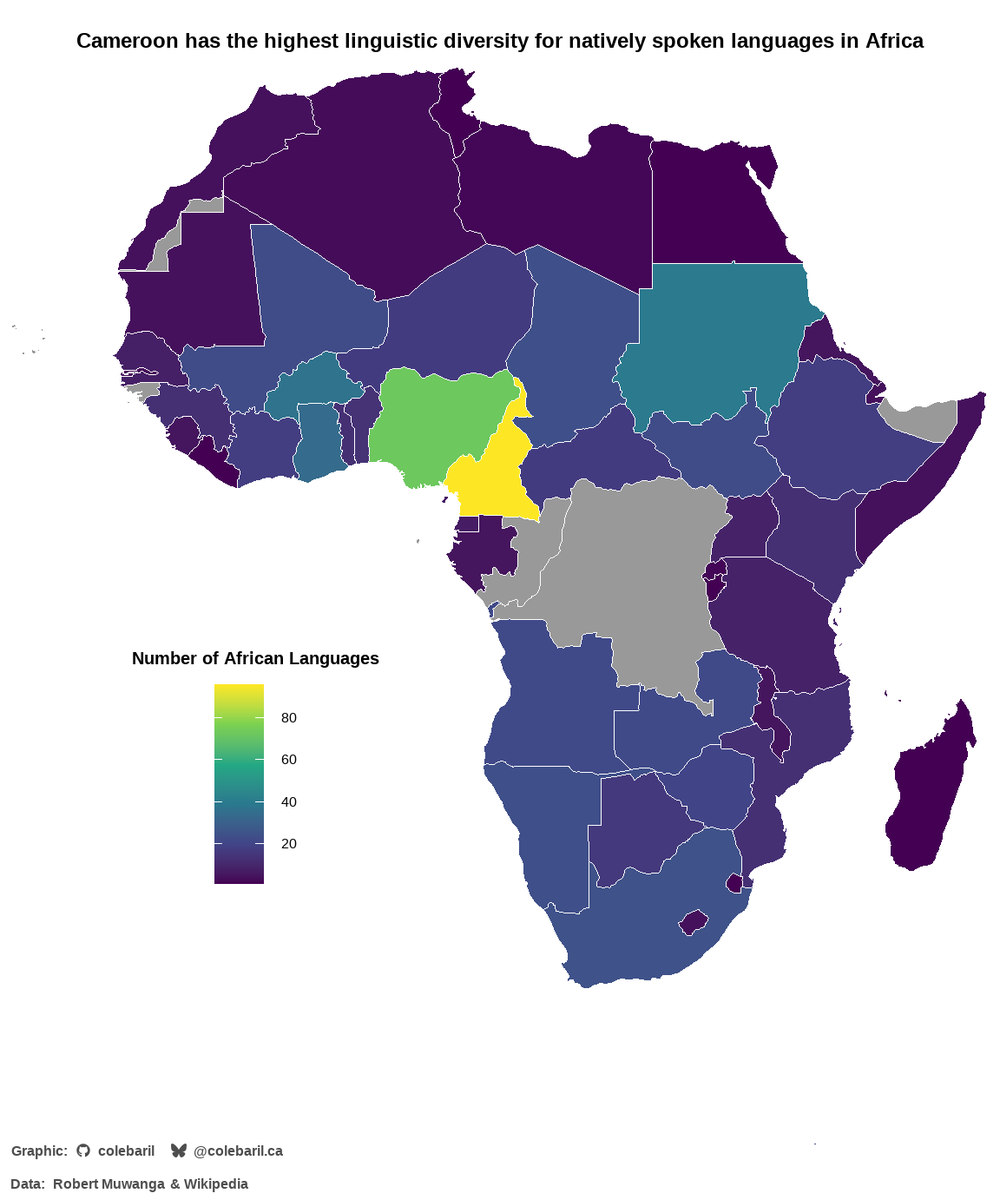
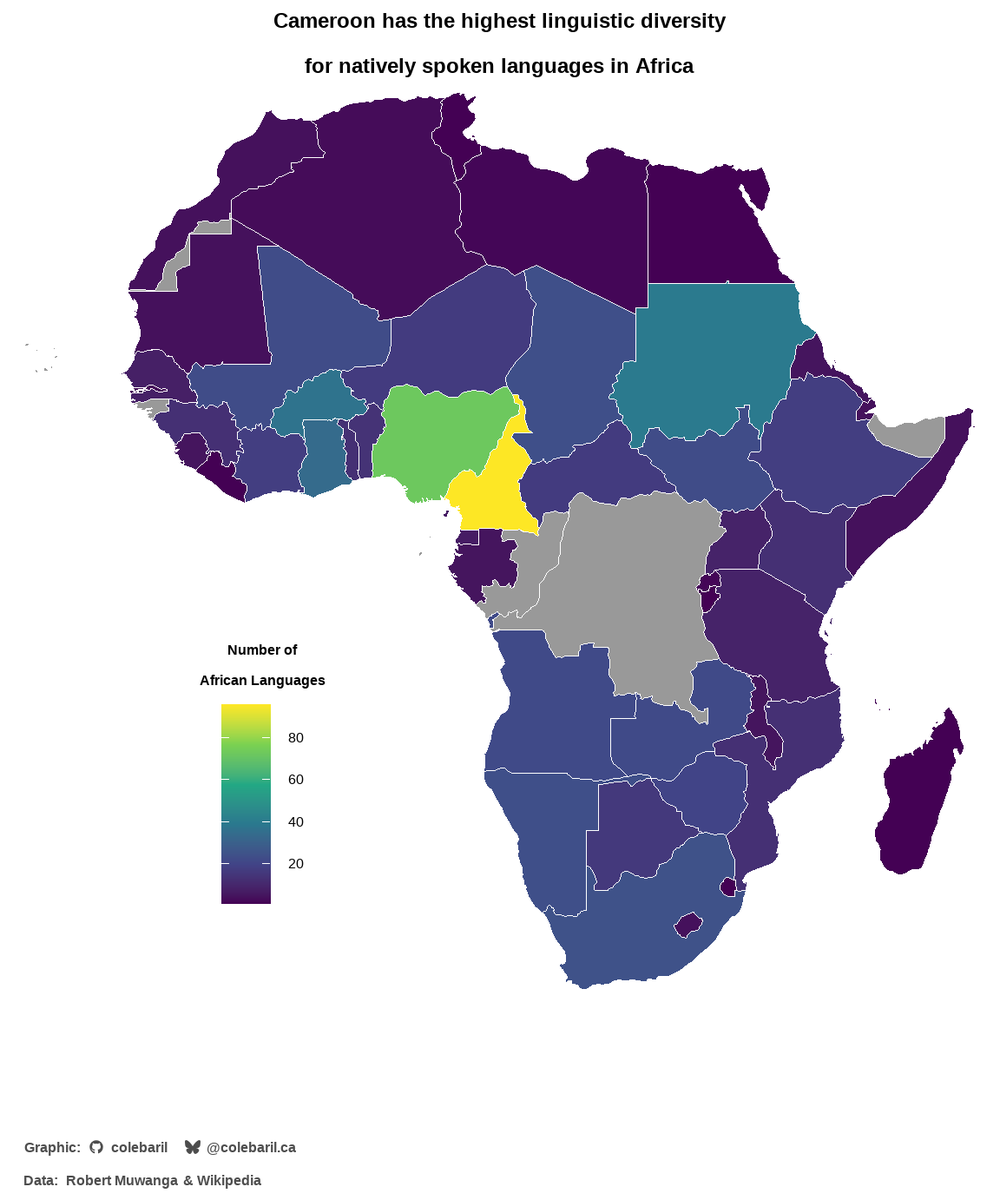
2025-01-20

diff --git a/docs/2026-01-20 - Astronomy Picture of the Day/2026-01-20 - Astronomy Picture of the Day.html b/docs/2026-01-20 - Astronomy Picture of the Day/2026-01-20 - Astronomy Picture of the Day.html
@@ -6,8 +6,9 @@
 
 <meta name="viewport" content="width=device-width, initial-scale=1.0, user-scalable=yes">
 
+<meta name="author" content="Cole Baril">
 
-<title>Cole’s TidyTuesday Archive – tidytuesday</title>
+<title>2026-01-20 - Astronomy Picture of the Day – tidytuesday</title>
 <style>
 code{white-space: pre-wrap;}
 span.smallcaps{font-variant: small-caps;}
@@ -20,25 +21,59 @@ ul.task-list li input[type="checkbox"] {
   margin: 0 0.8em 0.2em -1em; /* quarto-specific, see https://github.com/quarto-dev/quarto-cli/issues/4556 */ 
   vertical-align: middle;
 }
+/* CSS for syntax highlighting */
+pre > code.sourceCode { white-space: pre; position: relative; }
+pre > code.sourceCode > span { line-height: 1.25; }
+pre > code.sourceCode > span:empty { height: 1.2em; }
+.sourceCode { overflow: visible; }
+code.sourceCode > span { color: inherit; text-decoration: inherit; }
+div.sourceCode { margin: 1em 0; }
+pre.sourceCode { margin: 0; }
+@media screen {
+div.sourceCode { overflow: auto; }
+}
+@media print {
+pre > code.sourceCode { white-space: pre-wrap; }
+pre > code.sourceCode > span { display: inline-block; text-indent: -5em; padding-left: 5em; }
+}
+pre.numberSource code
+  { counter-reset: source-line 0; }
+pre.numberSource code > span
+  { position: relative; left: -4em; counter-increment: source-line; }
+pre.numberSource code > span > a:first-child::before
+  { content: counter(source-line);
+    position: relative; left: -1em; text-align: right; vertical-align: baseline;
+    border: none; display: inline-block;
+    -webkit-touch-callout: none; -webkit-user-select: none;
+    -khtml-user-select: none; -moz-user-select: none;
+    -ms-user-select: none; user-select: none;
+    padding: 0 4px; width: 4em;
+  }
+pre.numberSource { margin-left: 3em;  padding-left: 4px; }
+div.sourceCode
+  {   }
+@media screen {
+pre > code.sourceCode > span > a:first-child::before { text-decoration: underline; }
+}
 </style>
 
 
-<script src="site_libs/quarto-nav/quarto-nav.js"></script>
-<script src="site_libs/quarto-nav/headroom.min.js"></script>
-<script src="site_libs/clipboard/clipboard.min.js"></script>
-<script src="site_libs/quarto-search/autocomplete.umd.js"></script>
-<script src="site_libs/quarto-search/fuse.min.js"></script>
-<script src="site_libs/quarto-search/quarto-search.js"></script>
-<meta name="quarto:offset" content="./">
-<script src="site_libs/quarto-html/quarto.js"></script>
-<script src="site_libs/quarto-html/popper.min.js"></script>
-<script src="site_libs/quarto-html/tippy.umd.min.js"></script>
-<script src="site_libs/quarto-html/anchor.min.js"></script>
-<link href="site_libs/quarto-html/tippy.css" rel="stylesheet">
-<link href="site_libs/quarto-html/quarto-syntax-highlighting-2f5df379a58b258e96c21c0638c20c03.css" rel="stylesheet" id="quarto-text-highlighting-styles">
-<script src="site_libs/bootstrap/bootstrap.min.js"></script>
-<link href="site_libs/bootstrap/bootstrap-icons.css" rel="stylesheet">
-<link href="site_libs/bootstrap/bootstrap-08451e29fd5e7999e57999794949c97a.min.css" rel="stylesheet" append-hash="true" id="quarto-bootstrap" data-mode="light">
+<script src="../site_libs/quarto-nav/quarto-nav.js"></script>
+<script src="../site_libs/quarto-nav/headroom.min.js"></script>
+<script src="../site_libs/clipboard/clipboard.min.js"></script>
+<script src="../site_libs/quarto-search/autocomplete.umd.js"></script>
+<script src="../site_libs/quarto-search/fuse.min.js"></script>
+<script src="../site_libs/quarto-search/quarto-search.js"></script>
+<meta name="quarto:offset" content="../">
+<script src="../site_libs/quarto-html/quarto.js"></script>
+<script src="../site_libs/quarto-html/popper.min.js"></script>
+<script src="../site_libs/quarto-html/tippy.umd.min.js"></script>
+<script src="../site_libs/quarto-html/anchor.min.js"></script>
+<link href="../site_libs/quarto-html/tippy.css" rel="stylesheet">
+<link href="../site_libs/quarto-html/quarto-syntax-highlighting-2f5df379a58b258e96c21c0638c20c03.css" rel="stylesheet" id="quarto-text-highlighting-styles">
+<script src="../site_libs/bootstrap/bootstrap.min.js"></script>
+<link href="../site_libs/bootstrap/bootstrap-icons.css" rel="stylesheet">
+<link href="../site_libs/bootstrap/bootstrap-08451e29fd5e7999e57999794949c97a.min.css" rel="stylesheet" append-hash="true" id="quarto-bootstrap" data-mode="light">
 <script id="quarto-search-options" type="application/json">{
   "location": "navbar",
   "copy-button": false,
@@ -78,7 +113,7 @@ ul.task-list li input[type="checkbox"] {
     <nav class="navbar navbar-expand-lg " data-bs-theme="dark">
       <div class="navbar-container container-fluid">
       <div class="navbar-brand-container mx-auto">
-    <a class="navbar-brand" href="./index.html">
+    <a class="navbar-brand" href="../index.html">
     <span class="navbar-title">tidytuesday</span>
     </a>
   </div>
@@ -89,11 +124,11 @@ ul.task-list li input[type="checkbox"] {
           <div class="collapse navbar-collapse" id="navbarCollapse">
             <ul class="navbar-nav navbar-nav-scroll me-auto">
   <li class="nav-item">
-    <a class="nav-link active" href="./index.html" aria-current="page"> 
+    <a class="nav-link" href="../index.html"> 
 <span class="menu-text">Home</span></a>
   </li>  
   <li class="nav-item">
-    <a class="nav-link" href="./about.html"> 
+    <a class="nav-link" href="../about.html"> 
 <span class="menu-text">About This Site</span></a>
   </li>  
 </ul>
@@ -112,10 +147,7 @@ ul.task-list li input[type="checkbox"] {
     <h2 id="toc-title">On this page</h2>
    
   <ul>
-  <li><a href="#section" id="toc-section" class="nav-link active" data-scroll-target="#section">2026</a>
-  <ul class="collapse">
-  <li><a href="#section-1" id="toc-section-1" class="nav-link" data-scroll-target="#section-1">2025</a></li>
-  </ul></li>
+  <li><a href="#sun-mentions" id="toc-sun-mentions" class="nav-link active" data-scroll-target="#sun-mentions">Sun Mentions</a></li>
   </ul>
 </nav>
     </div>
@@ -124,13 +156,19 @@ ul.task-list li input[type="checkbox"] {
 
 <header id="title-block-header" class="quarto-title-block default">
 <div class="quarto-title">
-<h1 class="title">Cole’s TidyTuesday Archive</h1>
+<h1 class="title">2026-01-20 - Astronomy Picture of the Day</h1>
 </div>
 
 
 
 <div class="quarto-title-meta">
 
+    <div>
+    <div class="quarto-title-meta-heading">Author</div>
+    <div class="quarto-title-meta-contents">
+             <p>Cole Baril </p>
+          </div>
+  </div>
     
   
     
@@ -141,74 +179,75 @@ ul.task-list li input[type="checkbox"] {
 </header>
 
 
-<p>Click the links below to explore some of my weekly TidyTuesday posts</p>
-<section id="section" class="level1">
-<h1>2026</h1>
-<div class="columns">
-<div class="column" style="width:45%;">
-<section id="bring-your-own-data" class="level4">
-<h4 class="anchored" data-anchor-id="bring-your-own-data"><a href="2026-01-06 - Bring Your Own Data/2026-01-06 - Bring Your Own Data.html">2026-01-06 - Bring Your Own Data</a></h4>
-</section>
-</div><div class="column" style="width:45%;">
-<section id="the-languages-of-africa" class="level4">
-<h4 class="anchored" data-anchor-id="the-languages-of-africa"><a href="2026-01-13 - The Languages of Africa/2026-01-13 - The Languages of Africa.html">2026-01-13 - The Languages of Africa</a></h4>
-<p>Natively spoken languages in Africa.</p>
-</section>
-</div><div class="column" style="width:45%;">
-<section id="astronomy-picture-of-the-day" class="level4">
-<h4 class="anchored" data-anchor-id="astronomy-picture-of-the-day"><a href="2026-01-20 - Astronomy Picture of the Day/2026-01-20 - Astronomy Picture of the Day.html">2026-01-20 - Astronomy Picture of the Day</a></h4>
-<p>How often is the Sun mentioned in Astronomy Picture of the Day posts?</p>
-</section>
+<div class="cell">
+<div class="sourceCode cell-code" id="cb1"><pre class="sourceCode r code-with-copy"><code class="sourceCode r"><span id="cb1-1"><a href="#cb1-1" aria-hidden="true" tabindex="-1"></a><span class="fu">require</span>(pacman)</span>
+<span id="cb1-2"><a href="#cb1-2" aria-hidden="true" tabindex="-1"></a><span class="fu">p_load</span>(tidytuesdayR, tidyverse, janitor, here, spellbook, rnaturalearth, rnaturalearthdata, glue, ggtext, showtext)</span></code><button title="Copy to Clipboard" class="code-copy-button"><i class="bi"></i></button></pre></div>
 </div>
+<div class="cell">
+<div class="sourceCode cell-code" id="cb2"><pre class="sourceCode r code-with-copy"><code class="sourceCode r"><span id="cb2-1"><a href="#cb2-1" aria-hidden="true" tabindex="-1"></a>tuesdata <span class="ot">&lt;-</span> tidytuesdayR<span class="sc">::</span><span class="fu">tt_load</span>(<span class="st">'2026-01-20'</span>)</span>
+<span id="cb2-2"><a href="#cb2-2" aria-hidden="true" tabindex="-1"></a>apod <span class="ot">&lt;-</span> tuesdata<span class="sc">$</span>apod</span></code><button title="Copy to Clipboard" class="code-copy-button"><i class="bi"></i></button></pre></div>
 </div>
-<section id="section-1" class="level2">
-<h2 class="anchored" data-anchor-id="section-1">2025</h2>
-<div class="columns">
-<div class="column" style="width:45%;">
-<section id="himalayan-mountaineering" class="level4">
-<h4 class="anchored" data-anchor-id="himalayan-mountaineering"><a href="2025-01-21 - Himalayan Mountaineering/2025-01-21 - Himalayan Mountaineering.html">2025-01-21 - Himalayan Mountaineering</a></h4>
-<p>Mountaineering success rates in the Himalayan peaks.</p>
-</section>
-</div><div class="column" style="width:45%;">
-<section id="us-weekly-gas-prices" class="level4">
-<h4 class="anchored" data-anchor-id="us-weekly-gas-prices"><a href="2025-07-01 - US Weekly Gas Prices/2025-07-01 - US Weekly Gas Prices.html">2025-07-01 - US Weekly Gas Prices</a></h4>
-<p>Exploring trends in US gasoline prices</p>
-</section>
-</div><div class="column" style="width:45%;">
-<section id="extreme-weather-attribution-studies" class="level4">
-<h4 class="anchored" data-anchor-id="extreme-weather-attribution-studies"><a href="2025-08-12 - Extreme Weather Attribution Studies/2025-08-12 - Extreme Weather Attribution Studies.html">2025-08-12 - Extreme Weather Attribution Studies</a></h4>
-<p>Exploring extreme weather causes.</p>
-</section>
-</div><div class="column" style="width:45%;">
-<section id="scottish-munros" class="level4">
-<h4 class="anchored" data-anchor-id="scottish-munros"><a href="2025-08-19 - Scottish Munros/2025-08-19 - Scottish Munros.html">2025-08-19 - Scottish Munros</a></h4>
-<p>Exploring Scottish Munro (e.g., mountain) data.</p>
-</section>
-</div><div class="column" style="width:45%;">
-<section id="billboard-hot-100-number-ones" class="level4">
-<h4 class="anchored" data-anchor-id="billboard-hot-100-number-ones"><a href="2025-08-26 - Billboard Hot 100 Number Ones/2025-08-26 - Billboard Hot 100 Number Ones.html">2025-08-26 - Billboard Hot 100 Number Ones</a></h4>
-<p>Exploring Billboard Hot 100 Number One track data.</p>
-</section>
-</div><div class="column" style="width:45%;">
-<section id="australian-frogs" class="level4">
-<h4 class="anchored" data-anchor-id="australian-frogs"><a href="2025-09-02_Australian Frogs/2025-09-02_Australian Frogs.html">2025-09-02 – Australian Frogs</a></h4>
-<p>Exploring frog species richness across Australia.</p>
-</section>
-</div><div class="column" style="width:45%;">
-<section id="passport-power" class="level4">
-<h4 class="anchored" data-anchor-id="passport-power"><a href="2025-09-09 - Passport Power/2025-09-09 - Passport Power.html">2025-09-09 – Passport Power</a></h4>
-<p>Exploring passport power for each country.</p>
-</section>
-</div><div class="column" style="width:45%;">
-<section id="christmas-novels" class="level4">
-<h4 class="anchored" data-anchor-id="christmas-novels"><a href="2025-12-30 - Christmas Novels/2025-12-30 - Christmas Novels.html">2025-12-30 - Christmas Novels</a></h4>
-<p>Text analysis from Christmas novels.</p>
-</section>
+<div class="cell">
+<div class="sourceCode cell-code" id="cb3"><pre class="sourceCode r code-with-copy"><code class="sourceCode r"><span id="cb3-1"><a href="#cb3-1" aria-hidden="true" tabindex="-1"></a>sun_mentions <span class="ot">&lt;-</span> apod <span class="sc">|&gt;</span> </span>
+<span id="cb3-2"><a href="#cb3-2" aria-hidden="true" tabindex="-1"></a><span class="fu">mutate</span>(</span>
+<span id="cb3-3"><a href="#cb3-3" aria-hidden="true" tabindex="-1"></a>  <span class="at">sun_mention =</span></span>
+<span id="cb3-4"><a href="#cb3-4" aria-hidden="true" tabindex="-1"></a>    <span class="fu">str_detect</span>(title, <span class="fu">regex</span>(<span class="st">"(?&lt;![A-Za-z])sun(?![A-Za-z])"</span>, <span class="at">ignore_case =</span> <span class="cn">TRUE</span>)) <span class="sc">|</span></span>
+<span id="cb3-5"><a href="#cb3-5" aria-hidden="true" tabindex="-1"></a>    <span class="fu">str_detect</span>(explanation, <span class="fu">regex</span>(<span class="st">"(?&lt;![A-Za-z])sun(?![A-Za-z])"</span>, <span class="at">ignore_case =</span> <span class="cn">TRUE</span>)))</span>
+<span id="cb3-6"><a href="#cb3-6" aria-hidden="true" tabindex="-1"></a></span>
+<span id="cb3-7"><a href="#cb3-7" aria-hidden="true" tabindex="-1"></a>sun_mentions_cleaned <span class="ot">&lt;-</span> sun_mentions <span class="sc">|&gt;</span> </span>
+<span id="cb3-8"><a href="#cb3-8" aria-hidden="true" tabindex="-1"></a>  <span class="fu">filter</span>(sun_mention <span class="sc">==</span> <span class="cn">TRUE</span>)</span>
+<span id="cb3-9"><a href="#cb3-9" aria-hidden="true" tabindex="-1"></a></span>
+<span id="cb3-10"><a href="#cb3-10" aria-hidden="true" tabindex="-1"></a><span class="co"># Compute % of month with sun mentioned</span></span>
+<span id="cb3-11"><a href="#cb3-11" aria-hidden="true" tabindex="-1"></a>apod_solar <span class="ot">&lt;-</span> sun_mentions <span class="sc">|&gt;</span></span>
+<span id="cb3-12"><a href="#cb3-12" aria-hidden="true" tabindex="-1"></a>  <span class="fu">mutate</span>(</span>
+<span id="cb3-13"><a href="#cb3-13" aria-hidden="true" tabindex="-1"></a>    <span class="at">month =</span> <span class="fu">month</span>(date, <span class="at">label =</span> <span class="cn">TRUE</span>, <span class="at">abbr =</span> <span class="cn">TRUE</span>),</span>
+<span id="cb3-14"><a href="#cb3-14" aria-hidden="true" tabindex="-1"></a>    <span class="at">year =</span> <span class="fu">year</span>(date)) <span class="sc">|&gt;</span></span>
+<span id="cb3-15"><a href="#cb3-15" aria-hidden="true" tabindex="-1"></a>  <span class="fu">group_by</span>(year, month) <span class="sc">|&gt;</span></span>
+<span id="cb3-16"><a href="#cb3-16" aria-hidden="true" tabindex="-1"></a>  <span class="fu">summarise</span>(</span>
+<span id="cb3-17"><a href="#cb3-17" aria-hidden="true" tabindex="-1"></a>    <span class="at">sun_share =</span> <span class="fu">mean</span>(sun_mention, <span class="at">na.rm =</span> <span class="cn">TRUE</span>),</span>
+<span id="cb3-18"><a href="#cb3-18" aria-hidden="true" tabindex="-1"></a>    <span class="at">.groups =</span> <span class="st">"drop"</span>)</span></code><button title="Copy to Clipboard" class="code-copy-button"><i class="bi"></i></button></pre></div>
+</div>
+<section id="sun-mentions" class="level2">
+<h2 class="anchored" data-anchor-id="sun-mentions">Sun Mentions</h2>
+<div class="cell">
+<div class="sourceCode cell-code" id="cb4"><pre class="sourceCode r code-with-copy"><code class="sourceCode r"><span id="cb4-1"><a href="#cb4-1" aria-hidden="true" tabindex="-1"></a><span class="fu">ggplot</span>(apod_solar, <span class="fu">aes</span>(year, <span class="fu">fct_rev</span>(month), <span class="at">fill =</span> sun_share)) <span class="sc">+</span></span>
+<span id="cb4-2"><a href="#cb4-2" aria-hidden="true" tabindex="-1"></a>  <span class="fu">geom_tile</span>(<span class="at">color =</span> <span class="st">"black"</span>, <span class="at">linewidth =</span> <span class="fl">0.15</span>) <span class="sc">+</span></span>
+<span id="cb4-3"><a href="#cb4-3" aria-hidden="true" tabindex="-1"></a>  <span class="fu">scale_fill_gradient</span>(</span>
+<span id="cb4-4"><a href="#cb4-4" aria-hidden="true" tabindex="-1"></a>    <span class="at">low =</span> <span class="st">"#0B1026"</span>,   </span>
+<span id="cb4-5"><a href="#cb4-5" aria-hidden="true" tabindex="-1"></a>    <span class="at">high =</span> <span class="st">"#FDB813"</span>,  </span>
+<span id="cb4-6"><a href="#cb4-6" aria-hidden="true" tabindex="-1"></a>    <span class="at">labels =</span> scales<span class="sc">::</span>percent,</span>
+<span id="cb4-7"><a href="#cb4-7" aria-hidden="true" tabindex="-1"></a>    <span class="at">name =</span> <span class="st">"Sun Mentions"</span>) <span class="sc">+</span></span>
+<span id="cb4-8"><a href="#cb4-8" aria-hidden="true" tabindex="-1"></a>  <span class="fu">labs</span>(</span>
+<span id="cb4-9"><a href="#cb4-9" aria-hidden="true" tabindex="-1"></a>    <span class="at">x =</span> <span class="st">"Year"</span>, <span class="at">y =</span> <span class="st">"Month"</span>,</span>
+<span id="cb4-10"><a href="#cb4-10" aria-hidden="true" tabindex="-1"></a>    <span class="at">title =</span> <span class="st">"When the Sun Appears in Astronomy Picture of the Day Posts"</span>,</span>
+<span id="cb4-11"><a href="#cb4-11" aria-hidden="true" tabindex="-1"></a>    <span class="at">subtitle =</span> <span class="st">"Share of titles and explanations mentioning the Sun by month (2007–2025) </span><span class="sc">\n</span><span class="st">Each tile = % of that month mentioning the Sun"</span>) <span class="sc">+</span></span>
+<span id="cb4-12"><a href="#cb4-12" aria-hidden="true" tabindex="-1"></a>  <span class="fu">theme_minimal</span>(<span class="at">base_size =</span> <span class="dv">12</span>) <span class="sc">+</span></span>
+<span id="cb4-13"><a href="#cb4-13" aria-hidden="true" tabindex="-1"></a>  <span class="fu">scale_x_continuous</span>(<span class="at">expand =</span> <span class="fu">c</span>(<span class="dv">0</span>, <span class="dv">0</span>)) <span class="sc">+</span></span>
+<span id="cb4-14"><a href="#cb4-14" aria-hidden="true" tabindex="-1"></a>  <span class="fu">theme</span>(</span>
+<span id="cb4-15"><a href="#cb4-15" aria-hidden="true" tabindex="-1"></a>    <span class="at">panel.grid =</span> <span class="fu">element_blank</span>(),</span>
+<span id="cb4-16"><a href="#cb4-16" aria-hidden="true" tabindex="-1"></a>    <span class="at">plot.background =</span> <span class="fu">element_rect</span>(<span class="at">fill =</span> <span class="st">"#070B1A"</span>, <span class="at">color =</span> <span class="cn">NA</span>),</span>
+<span id="cb4-17"><a href="#cb4-17" aria-hidden="true" tabindex="-1"></a>    <span class="at">panel.background =</span> <span class="fu">element_rect</span>(<span class="at">fill =</span> <span class="st">"#070B1A"</span>, <span class="at">color =</span> <span class="cn">NA</span>),</span>
+<span id="cb4-18"><a href="#cb4-18" aria-hidden="true" tabindex="-1"></a>    <span class="at">text =</span> <span class="fu">element_text</span>(<span class="at">color =</span> <span class="st">"#F4E9D8"</span>),</span>
+<span id="cb4-19"><a href="#cb4-19" aria-hidden="true" tabindex="-1"></a>    <span class="at">axis.text =</span> <span class="fu">element_text</span>(<span class="at">color =</span> <span class="st">"#F4E9D8"</span>),</span>
+<span id="cb4-20"><a href="#cb4-20" aria-hidden="true" tabindex="-1"></a>    <span class="at">legend.key =</span> <span class="fu">element_rect</span>(<span class="at">fill =</span> <span class="st">"#070B1A"</span>),</span>
+<span id="cb4-21"><a href="#cb4-21" aria-hidden="true" tabindex="-1"></a>    <span class="at">plot.title =</span> <span class="fu">element_text</span>(<span class="at">face =</span> <span class="st">"bold"</span>),</span>
+<span id="cb4-22"><a href="#cb4-22" aria-hidden="true" tabindex="-1"></a>    <span class="at">axis.title =</span> <span class="fu">element_text</span>(<span class="at">face =</span> <span class="st">"bold"</span>, <span class="at">size =</span> <span class="dv">14</span>),</span>
+<span id="cb4-23"><a href="#cb4-23" aria-hidden="true" tabindex="-1"></a>    <span class="at">axis.text.x =</span> <span class="fu">element_text</span>(<span class="at">size =</span> <span class="dv">13</span>),</span>
+<span id="cb4-24"><a href="#cb4-24" aria-hidden="true" tabindex="-1"></a>    <span class="at">axis.text.y =</span> <span class="fu">element_text</span>(<span class="at">size =</span> <span class="dv">13</span>)</span>
+<span id="cb4-25"><a href="#cb4-25" aria-hidden="true" tabindex="-1"></a>    ) <span class="sc">+</span></span>
+<span id="cb4-26"><a href="#cb4-26" aria-hidden="true" tabindex="-1"></a>  <span class="fu">inscribe</span>(<span class="at">type =</span> <span class="st">"plot"</span>, </span>
+<span id="cb4-27"><a href="#cb4-27" aria-hidden="true" tabindex="-1"></a>           <span class="at">include_data_source =</span> <span class="cn">TRUE</span>, </span>
+<span id="cb4-28"><a href="#cb4-28" aria-hidden="true" tabindex="-1"></a>           <span class="at">data_source =</span> <span class="st">"NASA Astronomy Picture of the Day Archive"</span>)</span></code><button title="Copy to Clipboard" class="code-copy-button"><i class="bi"></i></button></pre></div>
+<div class="cell-output-display">
+<div>
+<figure class="figure">
+<p><img src="2026-01-20---Astronomy-Picture-of-the-Day_files/figure-html/plot-1.png" class="img-fluid figure-img" width="576"></p>
+</figure>
+</div>
 </div>
 </div>
 
 
-</section>
 </section>
 
 </main> <!-- /main -->

diff --git a/docs/2026-01-13 - The Languages of Africa/2026-01-13 - The Languages of Africa.html b/docs/2026-01-13 - The Languages of Africa/2026-01-13 - The Languages of Africa.html
@@ -210,7 +210,7 @@ pre > code.sourceCode > span > a:first-child::before { text-decoration: underlin
 <span id="cb3-18"><a href="#cb3-18" aria-hidden="true" tabindex="-1"></a>    <span class="at">option =</span> <span class="st">"viridis"</span>,</span>
 <span id="cb3-19"><a href="#cb3-19" aria-hidden="true" tabindex="-1"></a>    <span class="at">breaks =</span> <span class="fu">seq</span>(<span class="dv">0</span>, <span class="dv">100</span>, <span class="at">by =</span> <span class="dv">20</span>),</span>
 <span id="cb3-20"><a href="#cb3-20" aria-hidden="true" tabindex="-1"></a>    <span class="at">na.value =</span> <span class="st">"grey60"</span>,</span>
-<span id="cb3-21"><a href="#cb3-21" aria-hidden="true" tabindex="-1"></a>    <span class="at">name =</span> <span class="st">"Number of African Languages"</span></span>
+<span id="cb3-21"><a href="#cb3-21" aria-hidden="true" tabindex="-1"></a>    <span class="at">name =</span> <span class="st">"Number of </span><span class="sc">\n</span><span class="st">African Languages"</span></span>
 <span id="cb3-22"><a href="#cb3-22" aria-hidden="true" tabindex="-1"></a>  ) <span class="sc">+</span></span>
 <span id="cb3-23"><a href="#cb3-23" aria-hidden="true" tabindex="-1"></a>  <span class="fu">coord_sf</span>(<span class="at">expand =</span> <span class="cn">FALSE</span>) <span class="sc">+</span></span>
 <span id="cb3-24"><a href="#cb3-24" aria-hidden="true" tabindex="-1"></a>  <span class="fu">theme_minimal</span>(<span class="at">base_size =</span> <span class="dv">15</span>) <span class="sc">+</span></span>
@@ -221,12 +221,12 @@ pre > code.sourceCode > span > a:first-child::before { text-decoration: underlin
 <span id="cb3-29"><a href="#cb3-29" aria-hidden="true" tabindex="-1"></a>    <span class="at">plot.title =</span> <span class="fu">element_text</span>(<span class="at">vjust =</span> <span class="fl">0.5</span>, <span class="at">hjust =</span> <span class="fl">0.5</span>, <span class="at">face =</span> <span class="st">"bold"</span>),</span>
 <span id="cb3-30"><a href="#cb3-30" aria-hidden="true" tabindex="-1"></a>    <span class="at">legend.position =</span> <span class="st">"inside"</span>,</span>
 <span id="cb3-31"><a href="#cb3-31" aria-hidden="true" tabindex="-1"></a>    <span class="at">legend.position.inside =</span> <span class="fu">c</span>(<span class="fl">0.25</span>, <span class="fl">0.35</span>),</span>
-<span id="cb3-32"><a href="#cb3-32" aria-hidden="true" tabindex="-1"></a>    <span class="at">legend.title =</span> <span class="fu">element_text</span>(<span class="at">hjust =</span> <span class="fl">0.5</span>, <span class="at">face =</span> <span class="st">"bold"</span>),</span>
+<span id="cb3-32"><a href="#cb3-32" aria-hidden="true" tabindex="-1"></a>    <span class="at">legend.title =</span> <span class="fu">element_text</span>(<span class="at">hjust =</span> <span class="fl">0.5</span>, <span class="at">face =</span> <span class="st">"bold"</span>, <span class="at">size =</span> <span class="dv">12</span>),</span>
 <span id="cb3-33"><a href="#cb3-33" aria-hidden="true" tabindex="-1"></a>    <span class="at">legend.key.width =</span> <span class="fu">unit</span>(<span class="fl">0.75</span>, <span class="st">"cm"</span>),</span>
-<span id="cb3-34"><a href="#cb3-34" aria-hidden="true" tabindex="-1"></a>    <span class="at">plot.margin =</span> <span class="fu">margin</span>(<span class="dv">5</span>, <span class="dv">5</span>, <span class="sc">-</span><span class="dv">5</span>, <span class="dv">5</span>)</span>
+<span id="cb3-34"><a href="#cb3-34" aria-hidden="true" tabindex="-1"></a>    <span class="at">plot.margin =</span> <span class="fu">margin</span>(<span class="dv">5</span>, <span class="dv">5</span>, <span class="dv">5</span>, <span class="dv">5</span>)</span>
 <span id="cb3-35"><a href="#cb3-35" aria-hidden="true" tabindex="-1"></a>  ) <span class="sc">+</span></span>
 <span id="cb3-36"><a href="#cb3-36" aria-hidden="true" tabindex="-1"></a>  <span class="fu">labs</span>(</span>
-<span id="cb3-37"><a href="#cb3-37" aria-hidden="true" tabindex="-1"></a>    <span class="at">title =</span> <span class="st">"Cameroon has the highest linguistic diversity for natively spoken languages in Africa"</span></span>
+<span id="cb3-37"><a href="#cb3-37" aria-hidden="true" tabindex="-1"></a>    <span class="at">title =</span> <span class="st">"Cameroon has the highest linguistic diversity </span><span class="sc">\n</span><span class="st">for natively spoken languages in Africa"</span></span>
 <span id="cb3-38"><a href="#cb3-38" aria-hidden="true" tabindex="-1"></a>  ) <span class="sc">+</span></span>
 <span id="cb3-39"><a href="#cb3-39" aria-hidden="true" tabindex="-1"></a>  <span class="fu">inscribe</span>(<span class="at">type =</span> <span class="st">"plot"</span>, <span class="at">include_data_source =</span> <span class="cn">TRUE</span>,</span>
 <span id="cb3-40"><a href="#cb3-40" aria-hidden="true" tabindex="-1"></a>           <span class="at">data_source =</span> <span class="st">"Robert Muwanga &amp; Wikipedia"</span>)</span></code><button title="Copy to Clipboard" class="code-copy-button"><i class="bi"></i></button></pre></div>
